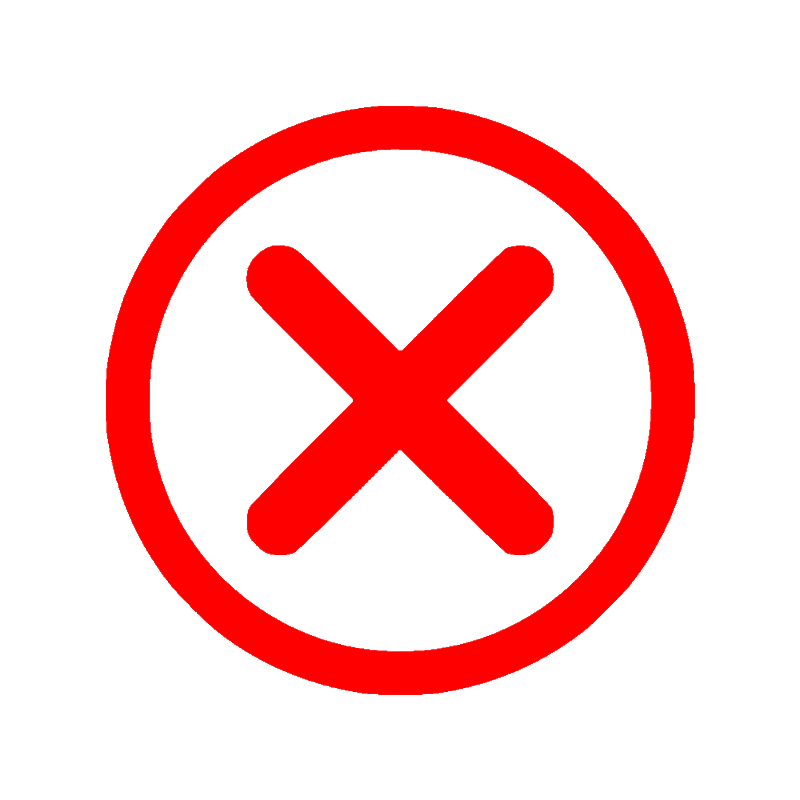
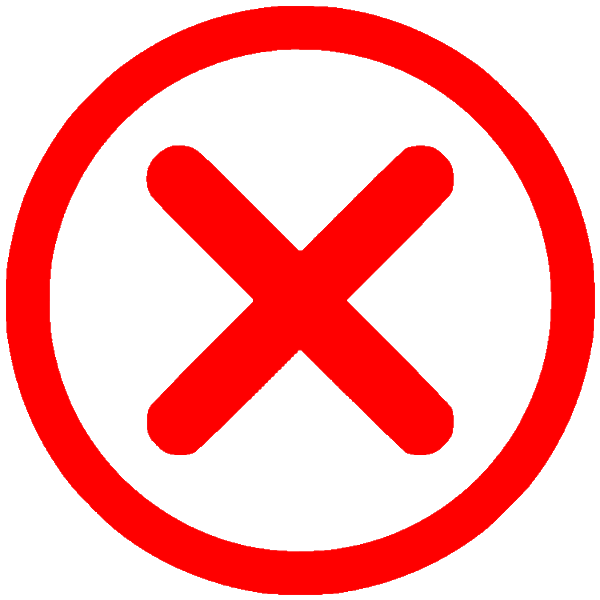
Plano_saude - otimização

diff --git a/templates/planos_saude/lista_plano_saude.html b/templates/planos_saude/lista_plano_saude.html
@@ -55,7 +55,7 @@ Lista
         <th>{{ plano_saude.nome }}</th>
         <th>{{ plano_saude.numero }}</th>
         <th>{{ plano_saude.validade }}</th>
-        <th><a href="{% url 'planos_saude:delete_plano_saude' plano_saude.id %}" ><img src="{% static 'img\x.png' %}" width="20px" height="20px"/></a></th>
+        <th><a href="{% url 'planos_saude:delete_plano_saude' plano_saude.id %}" ><img src="{% static 'img\x.png' %}"/></a></th>
     </tr>
     {% endfor %}
   </tbody>
